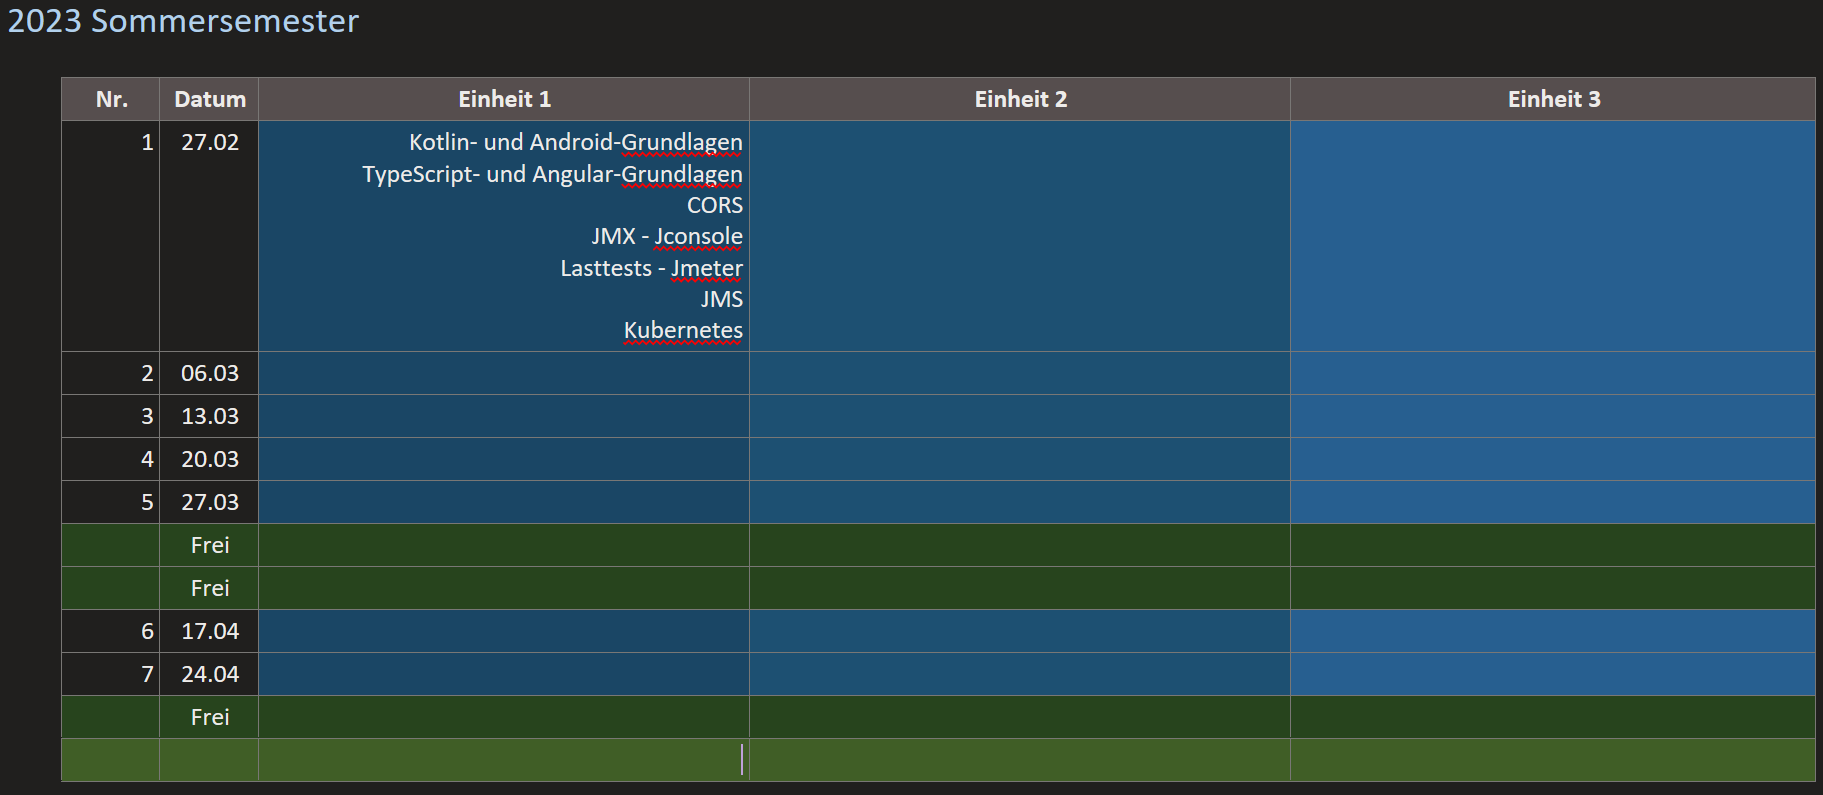
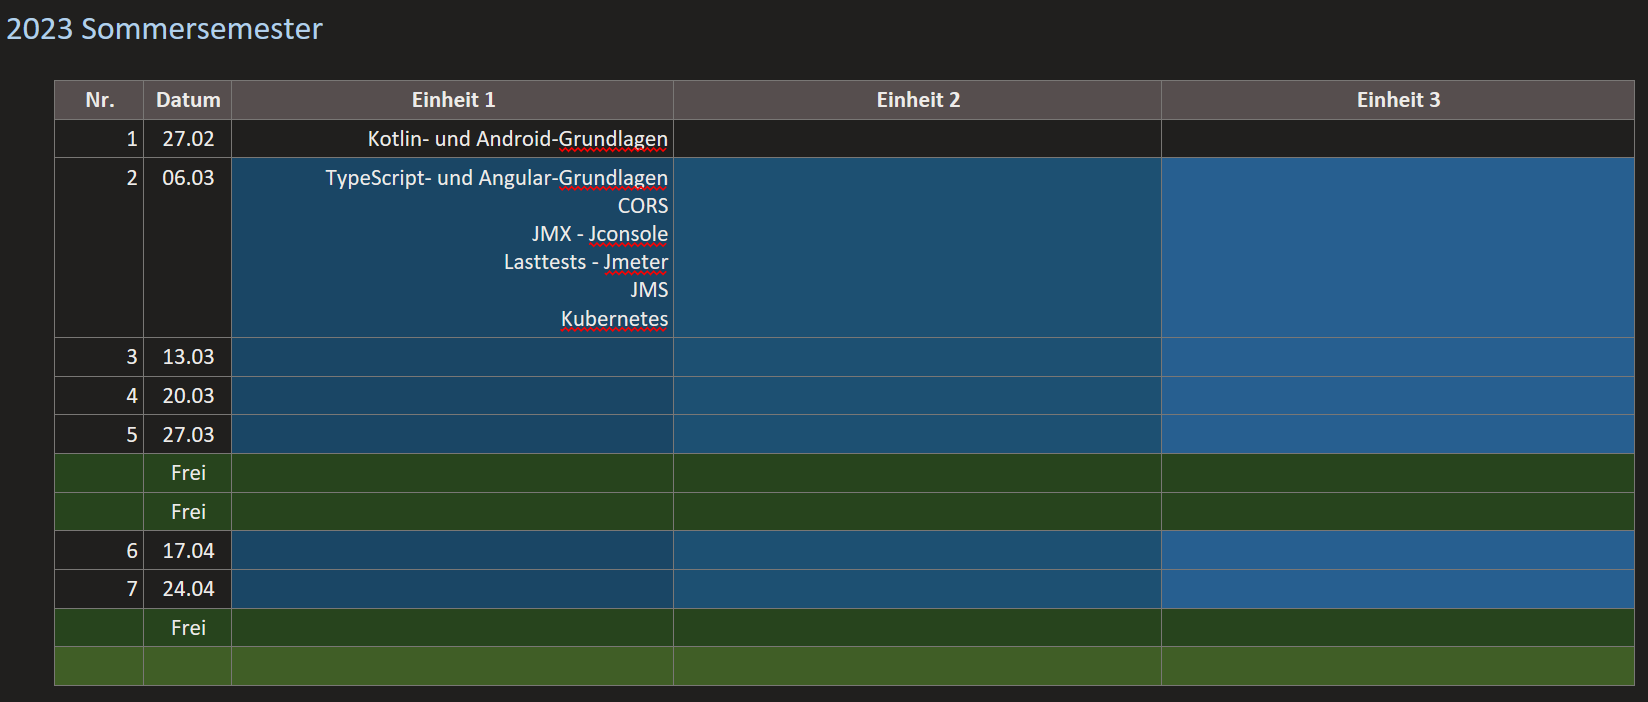
update

diff --git a/2023-5BHIF-NVSV-2.md b/2023-5BHIF-NVSV-2.md
@@ -14,10 +14,22 @@
 
 
 
+## 2. Einheit 2023-03-06
+
+* [Typescript-Angular-Basics](https://github.com/UnterrainerInformatik/htl/blob/master/presentations/typescript-angluar-basics.pdf)
+
+* Übungsfragen
+
+  ### Hausübung
+
+  Nichts
+
+  
+
 ## 1. Einheit 2023-02-27
 
 * [Kotlin-Android-JetpackCompose-Basics](https://github.com/UnterrainerInformatik/htl/blob/master/presentations/kotlin-android-basics.pdf)
-* [Typescript-Angular-Basics](https://github.com/UnterrainerInformatik/htl/blob/master/presentations/typescript-angluar-basics.pdf)
+
 * Übungsfragen
 
   | NAME              | Prüfungsfrage | Termin     |

diff --git a/2023-5CHIF-NVSV-2.md b/2023-5CHIF-NVSV-2.md
@@ -15,11 +15,21 @@
 
 
 
+## 2. Einheit 2023-03-06
+
+* [Typescript-Angular-Basics](https://github.com/UnterrainerInformatik/htl/blob/master/presentations/typescript-angluar-basics.pdf)
+
+* Übungsfragen
+
+  ### Hausübung
+
+  Nichts
+
+  
+
 ## 1. Einheit 2023-02-27
 
 * [Kotlin-Android-JetpackCompose-Basics](https://github.com/UnterrainerInformatik/htl/blob/master/presentations/kotlin-android-basics.pdf)
-
-* [Typescript-Angular-Basics](https://github.com/UnterrainerInformatik/htl/blob/master/presentations/typescript-angluar-basics.pdf)
 
 * Fragen
   * **Kommunikation verteilter Systeme**
